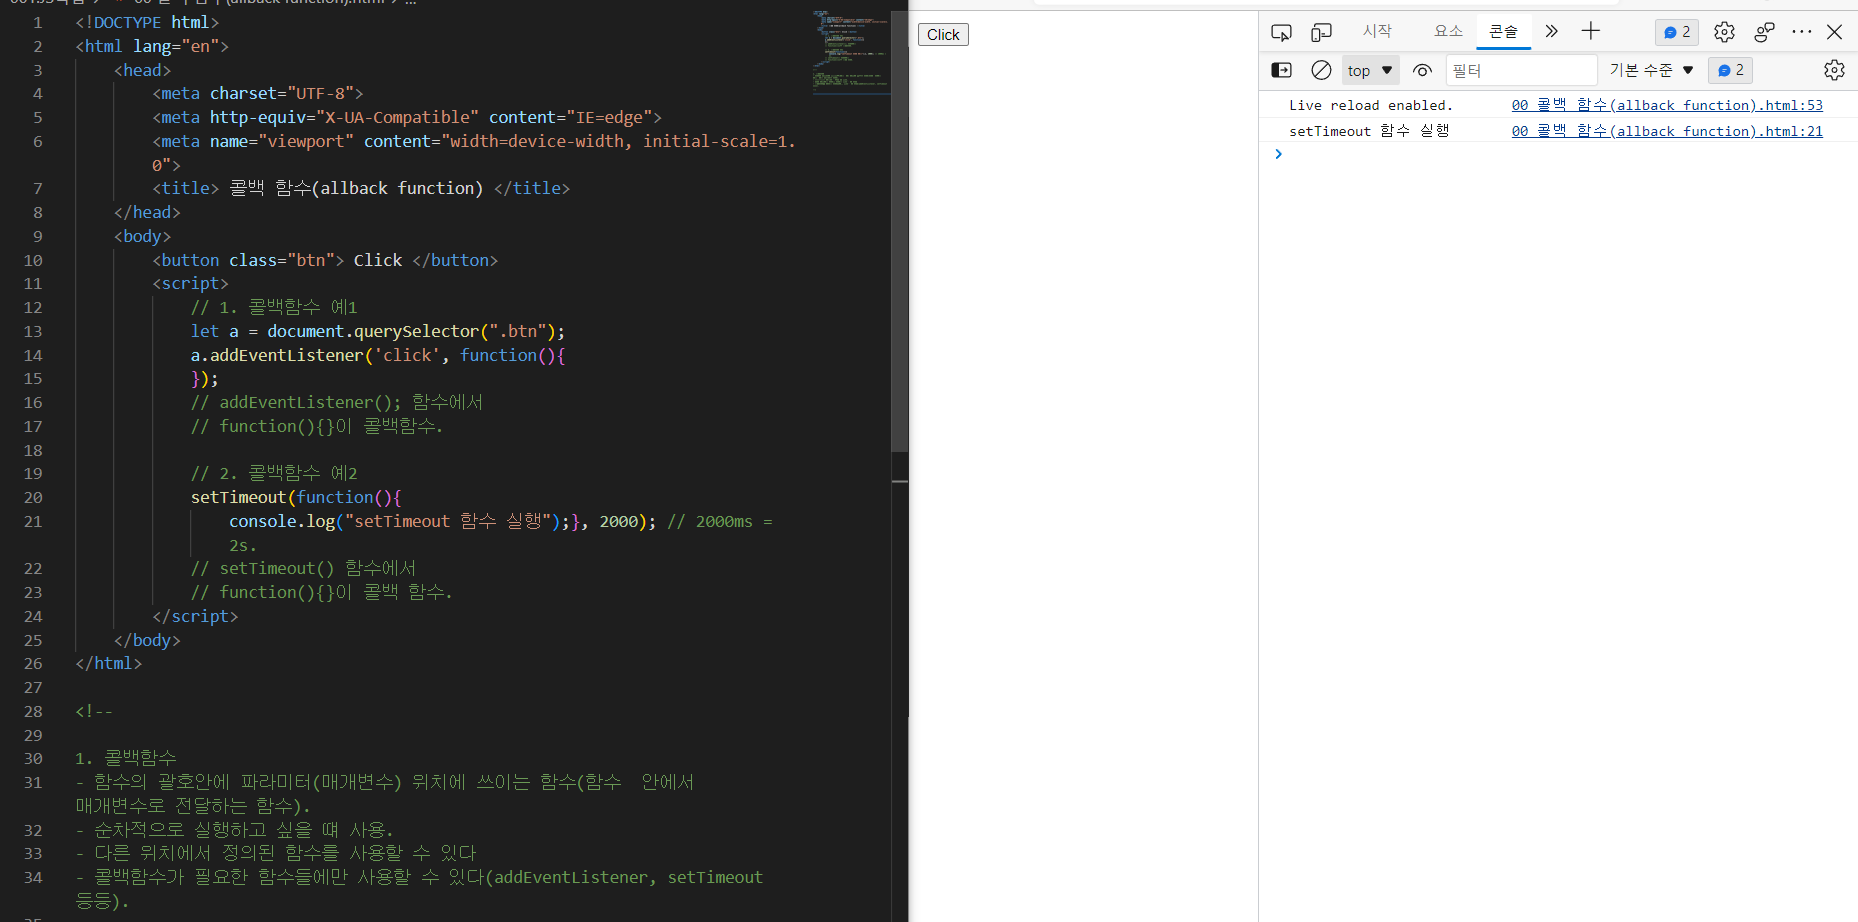
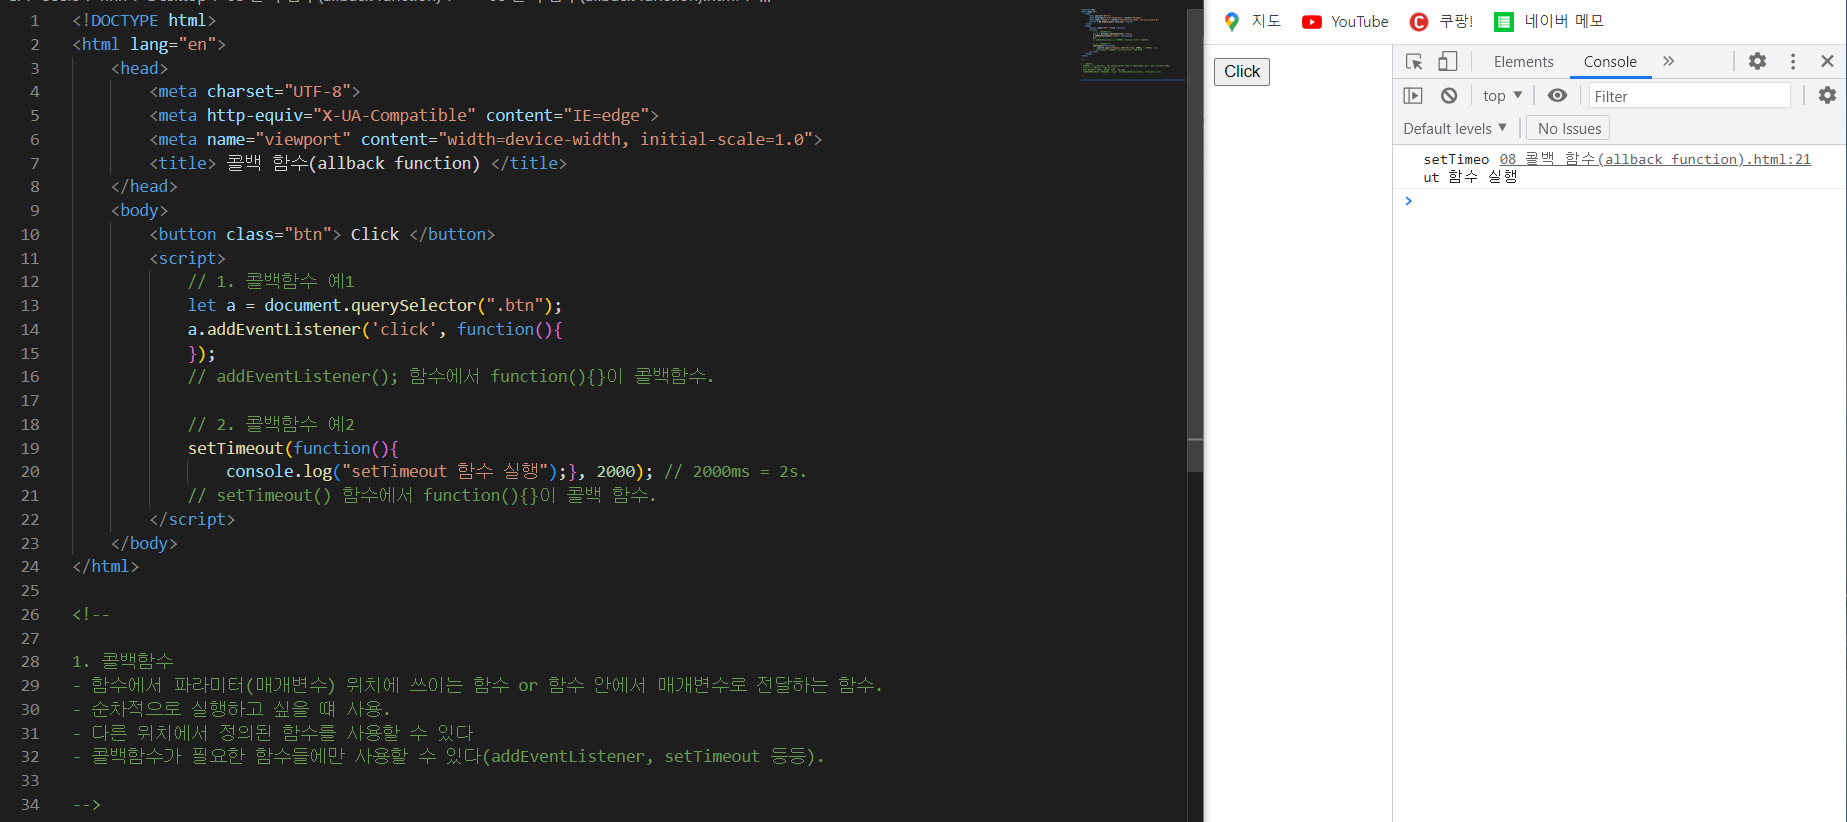
green

diff --git a/정리/03 8.16~8.18/콜백 함수(allback function)/08 콜백 함수(allback function).html b/정리/03 8.16~8.18/콜백 함수(allback function)/08 콜백 함수(allback function).html
@@ -13,14 +13,12 @@
             let a = document.querySelector(".btn");
             a.addEventListener('click', function(){ 
             });
-            // addEventListener(); 함수에서
-            // function(){}이 콜백함수.
+            // addEventListener(); 함수에서 function(){}이 콜백함수.
             
             // 2. 콜백함수 예2
             setTimeout(function(){
                 console.log("setTimeout 함수 실행");}, 2000); // 2000ms = 2s.
-            // setTimeout() 함수에서 
-            // function(){}이 콜백 함수.
+            // setTimeout() 함수에서 function(){}이 콜백 함수.
         </script> 
     </body>
 </html>
@@ -28,7 +26,7 @@
 <!-- 
 
 1. 콜백함수
-- 함수의 괄호안에 파라미터(매개변수) 위치에 쓰이는 함수(함수  안에서 매개변수로 전달하는 함수).
+- 함수에서 파라미터(매개변수) 위치에 쓰이는 함수 or 함수 안에서 매개변수로 전달하는 함수.
 - 순차적으로 실행하고 싶을 떄 사용.
 - 다른 위치에서 정의된 함수를 사용할 수 있다
 - 콜백함수가 필요한 함수들에만 사용할 수 있다(addEventListener, setTimeout 등등).
